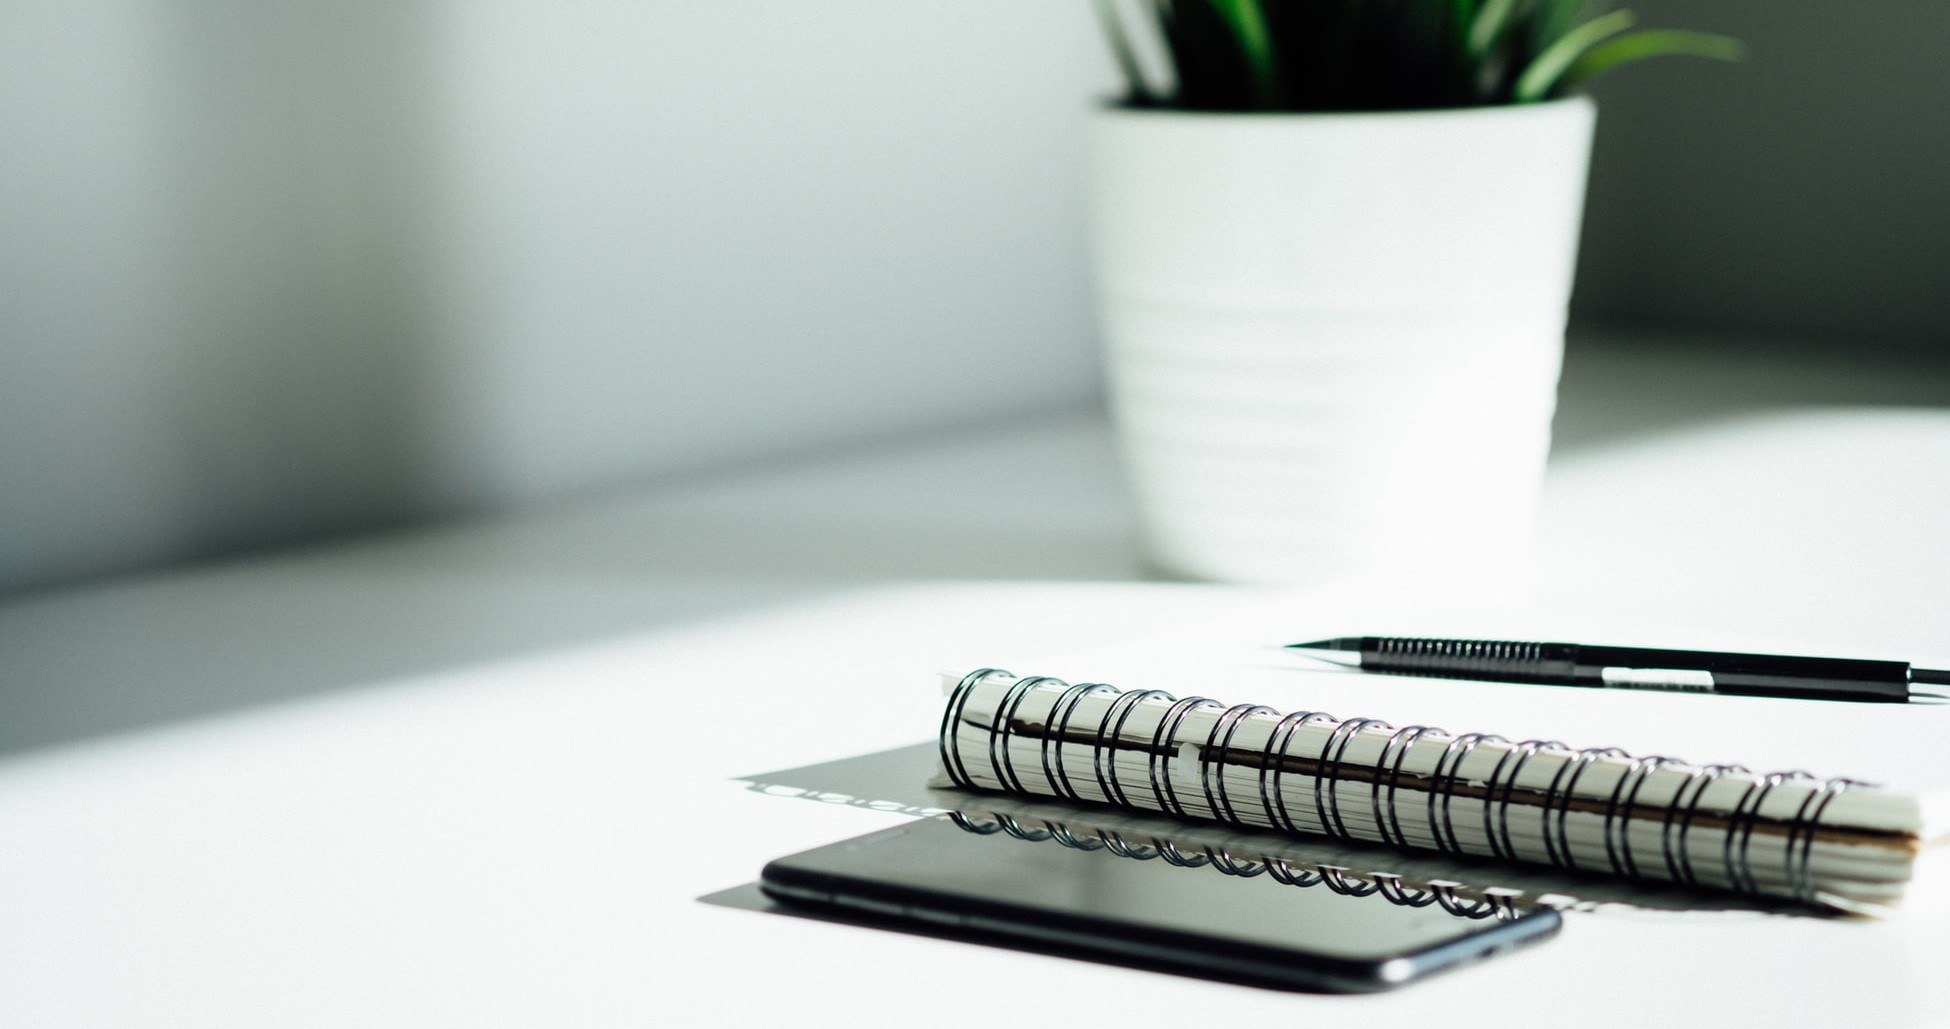
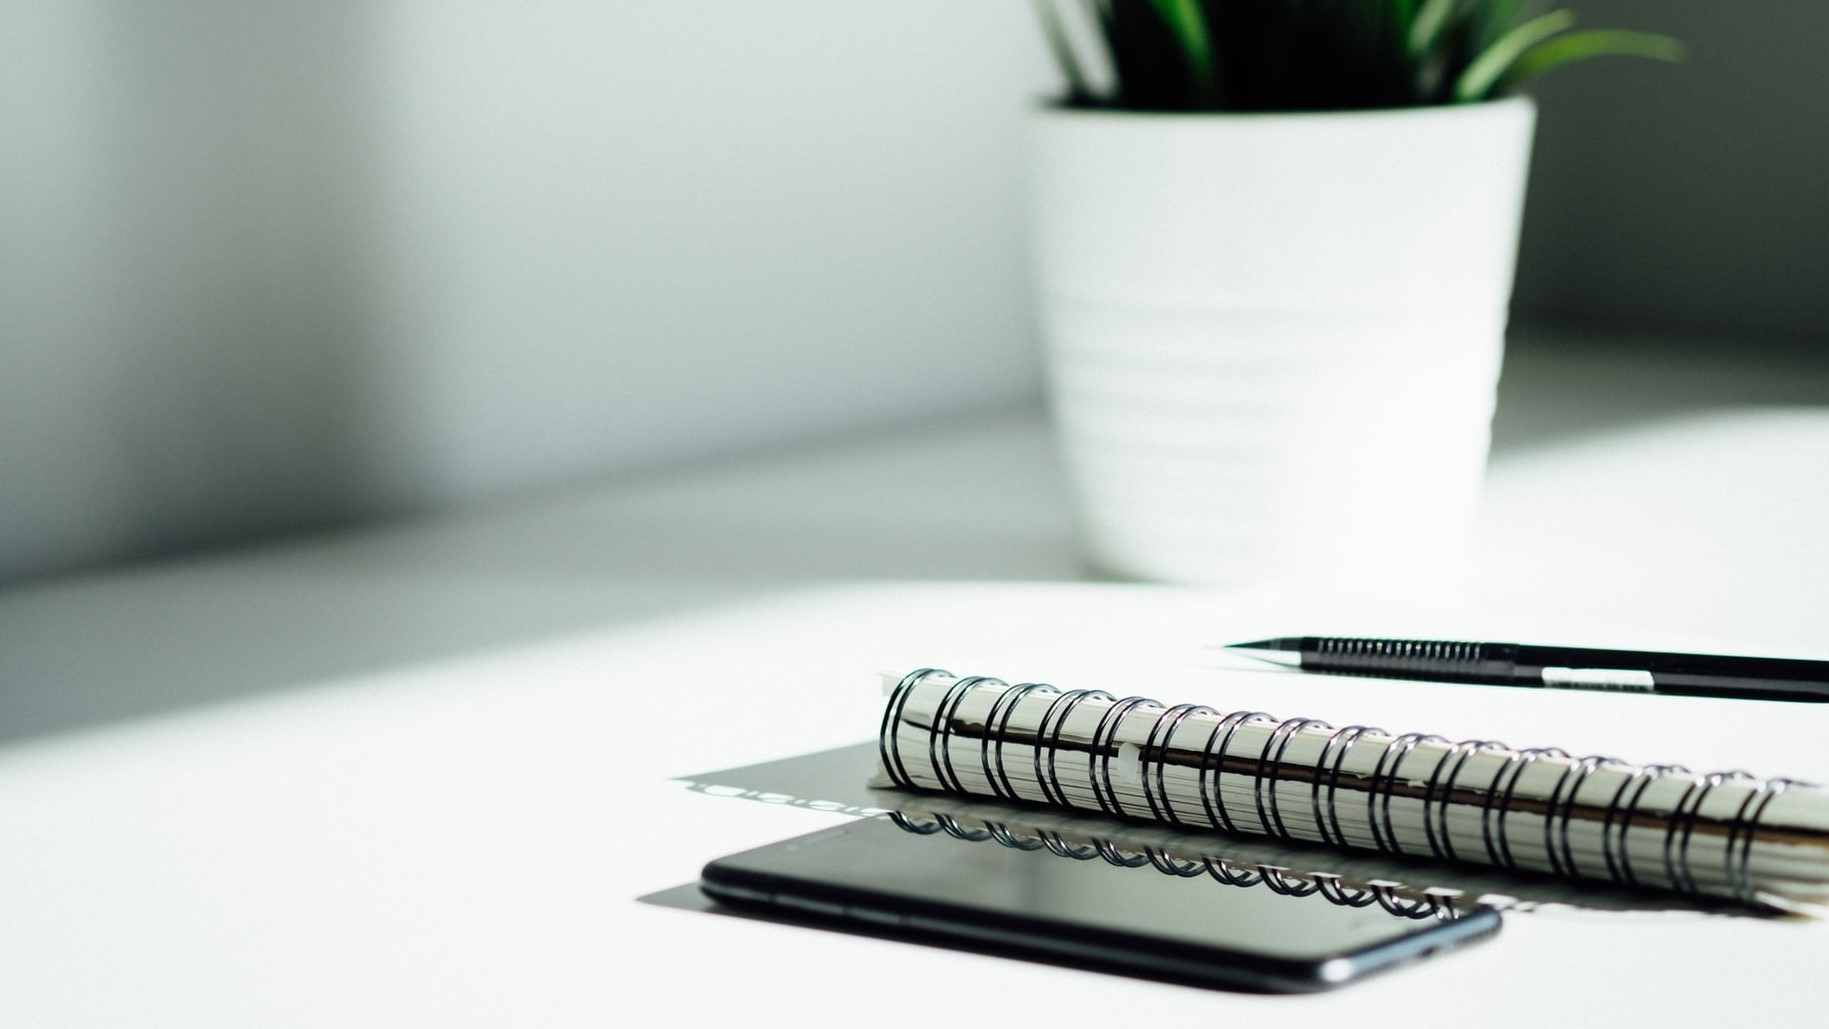
css

diff --git a/homepage.css b/homepage.css
@@ -1,15 +1,6 @@
-body {
-  background-color: white;
-  
-}
-
-header img {
+.row img {
   width: 100%;
-}
-
-header {
-  position: relative;
-  z-index: -1;
+  display: block;
 }
 
 * {
@@ -22,6 +13,10 @@ header {
   clear: both;
 }
 
+.row:first-of-type {
+  background-color: #9aa090;
+}
+
 div .column {
   float: left;
   width: 50%;
@@ -29,14 +24,68 @@ div .column {
 
 div .r {
   float: right;
+  color: white;
 }
 
-.r h2 {
-  font-size: 1.7rem;
+header h2 {
+  font-size: 3.8rem;
+  margin-left: 2rem;
+  margin-right: 2rem;
+  text-align: center;
+  font-family: unica one;
+}
+
+.l p {
+  font-size: 1.1rem;
+  margin-left: 3rem;
+  margin-right: 3rem;
+  color: white;
+  margin-top: 2rem;
+}
+
+#centered {
   text-align: center;
   color: black;
+  font-size: 1.2rem;
+  
 }
 
-.row {
-  padding-bottom: 1rem;
+.l a {
+  color: white;
+  cursor: pointer;
+}
+
+.row:last-of-type {
+  background-color: #7c90a0;
+}
+
+.row:last-of-type .r h2 {
+  font-family: unica one;
+  font-size: 2rem;
+  text-align: center;
+}
+
+.row .r p {
+  margin-left: 3rem;
+  margin-right: 3rem;
+  font-size: 1.1rem;
+}
+
+@media only screen and (max-width: 1144px) {
+  header h2 {
+    font-size: 1.6rem;
+  }
+  
+  .l p, #centered {
+    font-size: .9rem;
+  }
+  
+  .row:last-of-type .r p {
+    font-size: .75rem;
+  }
+  
+  .row .r h2 {
+    font-size: 1.5rem;
+  }
+  
 }

diff --git a/generalstylesheet.css b/generalstylesheet.css
@@ -3,16 +3,19 @@ body {
   margin: 0;
   padding: 0;
   background-color: #b9b7a7;
+  width: 100%;
+  height: 100%;
 }
 
 /*website header/logo */
 h1:first-of-type {
-  font-size: 1.5rem;
+  font-size: 2rem;
   padding: 2rem;
   text-align: center;
   color: white;
-  background-color: #4e5166;
-  margin: 0
+  background-color: #666053;
+  margin: 0;
+  font-family: unica one;
 }
 
 /*navbar position & styling*/
@@ -39,17 +42,6 @@ nav ul li a{
   text-decoration: none;
   color: white;
   font-weight: bold;
-}
-
-/*footer*/
-footer {
-    background-color: pink;
-    width: 100%;
-    padding: .5rem;
-}
-
-footer h4 {
-  font-size: 1.5rem;
 }
 
 nav ul li a:hover {

diff --git a/register.css b/register.css
@@ -1,12 +1,17 @@
+body {
+  background-image: url("/db-website/background.jpg");
+}
+
 .form {
   display: block;
   text-align: center;
-  width: 500px;
+  width: 600px;
   margin-left: auto;
   margin-right: auto;
   margin-top: 10%;
   margin-bottom: 10%;
   color: black;
+  background-color: rgba(255, 255, 255, 0.4);
 }
 
 form h2 {
@@ -59,7 +64,7 @@ button {
   margin-bottom: 4rem;
   padding: .8rem 3rem;
   border-radius: 3px;
-  background-color: #4e5166;
+  background-color: #666053;
   color: white;
   border: none;
   cursor: pointer;

diff --git a/login.css b/login.css
@@ -1,3 +1,7 @@
+body {
+  background-image: url("/db-website/background.jpg");
+}
+
 h2 {
   text-align: center;
   margin-top: 8rem;
@@ -35,7 +39,7 @@ form button {
   margin-top: 1rem;
   padding: .7rem 2.3rem;
   border-radius: 3px;
-  background-color: #4e5166;
+  background-color: #666053;
   color: white;
   border: none;
   cursor: pointer;
@@ -57,7 +61,7 @@ form button {
 
 #centered a {
   text-decoration: none;
-  background-color: #4e5166;
+  background-color: #666053;
   padding: 1rem;
   color: white;
   margin: 1rem;

diff --git a/modifyaccount.css b/modifyaccount.css
@@ -31,7 +31,7 @@ button {
   border: none;
   text-decoration: none;
   padding: .4rem 1rem;
-  background-color: #4e5166;
+  background-color: #666053;
   color: white;
   cursor: pointer;
   font-family: cairo;

diff --git a/deleteUser.css b/deleteUser.css
@@ -55,7 +55,7 @@ form button {
   padding: .7rem 1.7rem;
   border-radius: 3px;
   border: none;
-  background-color: #4e5166;
+  background-color: #666053;
   color: white;
   font-family: cairo;
 }

diff --git a/adminPage.css b/adminPage.css
@@ -19,7 +19,7 @@ button {
   padding: .5rem 1.5rem;
   border-radius: 3px;
   border: none;
-  background-color: #4e5166;
+  background-color: #666053;
   color: white;
   font-family: cairo;
 }

diff --git a/userInfo.css b/userInfo.css
@@ -43,7 +43,7 @@ button {
   padding: .5rem 1.5rem;
   border-radius: 3px;
   border: none;
-  background-color: #4e5166;
+  background-color: #666053;
   color: white;
   font-family: cairo;
 }

diff --git a/add.css b/add.css
@@ -47,7 +47,7 @@ form button {
   border-radius: 2px;
   border: none;
   cursor: pointer;
-  background-color: #4e5166;
+  background-color: #666053;
   color: white;
   font-family: cairo;
 }

diff --git a/assignments.css b/assignments.css
@@ -86,7 +86,7 @@ div .r a {
   color: white;
   text-decoration: none;
   padding: .5rem 2.8rem;
-  background-color: #4e5166;
+  background-color: #666053;
   border-radius: 5px;
 }
 

diff --git a/index.php b/index.php
@@ -10,24 +10,53 @@ include('loginfunctions.php');
 <meta name="viewport" content="width=device-width, initial-scale=1">
 <link rel="stylesheet" href="generalstylesheet.css">
 <link rel="stylesheet" href="homepage.css">
-<link href="https://fonts.googleapis.com/css?family=Cairo&display=swap" rel="stylesheet">
+<link href="https://fonts.googleapis.com/css?family=Cairo|Unica+One&display=swap" rel="stylesheet">
 </head>
 <body>
   <h1>Homework Tracker</h1>
   <?php isLoggedIn() ?>
-  <header>
   <div class='row'>
+    <header>
+      <div class='column l'>
+        <img src='/db-website/header-home.jpeg' alt='picture of notebook, pen, and phone, on a table'>
+      </div>
+      <div class='column r'>
+        <h2>Never forget to do your homework again.</h2>
+      </div>
+    </header>
+  </div>
+    <div class='row'>
     <div class='column l'>
-      <img src='/db-website/header-home.jpeg'>
+      <p>
+        Are you tired of accidentally forgetting to turn in your homework?
+        There is just too many assignments and due dates to keep track of
+        in college. Homework Tracker will help you keep track of your homework,
+        quizzes, projects, and tests. It will keep your assignments & classes
+        organized in one place. It is easy and helpful to use.
+        <div id = 'centered'><a href='register.php'>Sign up</a> for an account today!</div>
+      </p>
     </div>
     <div class='column r'>
-      <h2>Never forget to do your homework again.</h2>
-      <p>
-
+      <img src='/db-website/pic2.jpeg' alt='picture with books, glasses, plants'>
+    </div>
+  </div>
+  <div class='row'>
+    <div class='column l'>
+      <img src='/db-website/aboutpic.jpeg' alt='picture of a forest with mountain in the background'>
+    </div>
+    <div class='column r'>
+      <h2>About the Creator</h2>
+      <p>My name is Jaclyn. I was born and raise in Minnesota and have lived here
+        my whole life. I have a dog named Toto who is 12 years old. I enjoy playing
+        video games, gardening, traveling, and nature. I also like to create websites!
+        I came up with this idea for my database project because I have trouble
+        remembering to do things if I don't put them down somewhere such as
+        my phone and computer. I chose the color scheme I did for the website because
+        earthy tones are chill which can help the user be less stressed when using
+        the website.
       </p>
     </div>
   </div>
-  </header>
 
 </body>
 </html>

diff --git a/adminPage.php b/adminPage.php
@@ -12,7 +12,7 @@ include("connection.php");
 <meta name="viewport" content="width=device-width, initial-scale=1">
 <link rel="stylesheet" href="generalstylesheet.css">
 <link rel="stylesheet" href="adminPage.css">
-<link href="https://fonts.googleapis.com/css?family=Cairo&display=swap" rel="stylesheet">
+<link href="https://fonts.googleapis.com/css?family=Cairo|Unica+One&display=swap" rel="stylesheet">
 </head>
 <body>
   <h1>Homework Tracker</h1>
